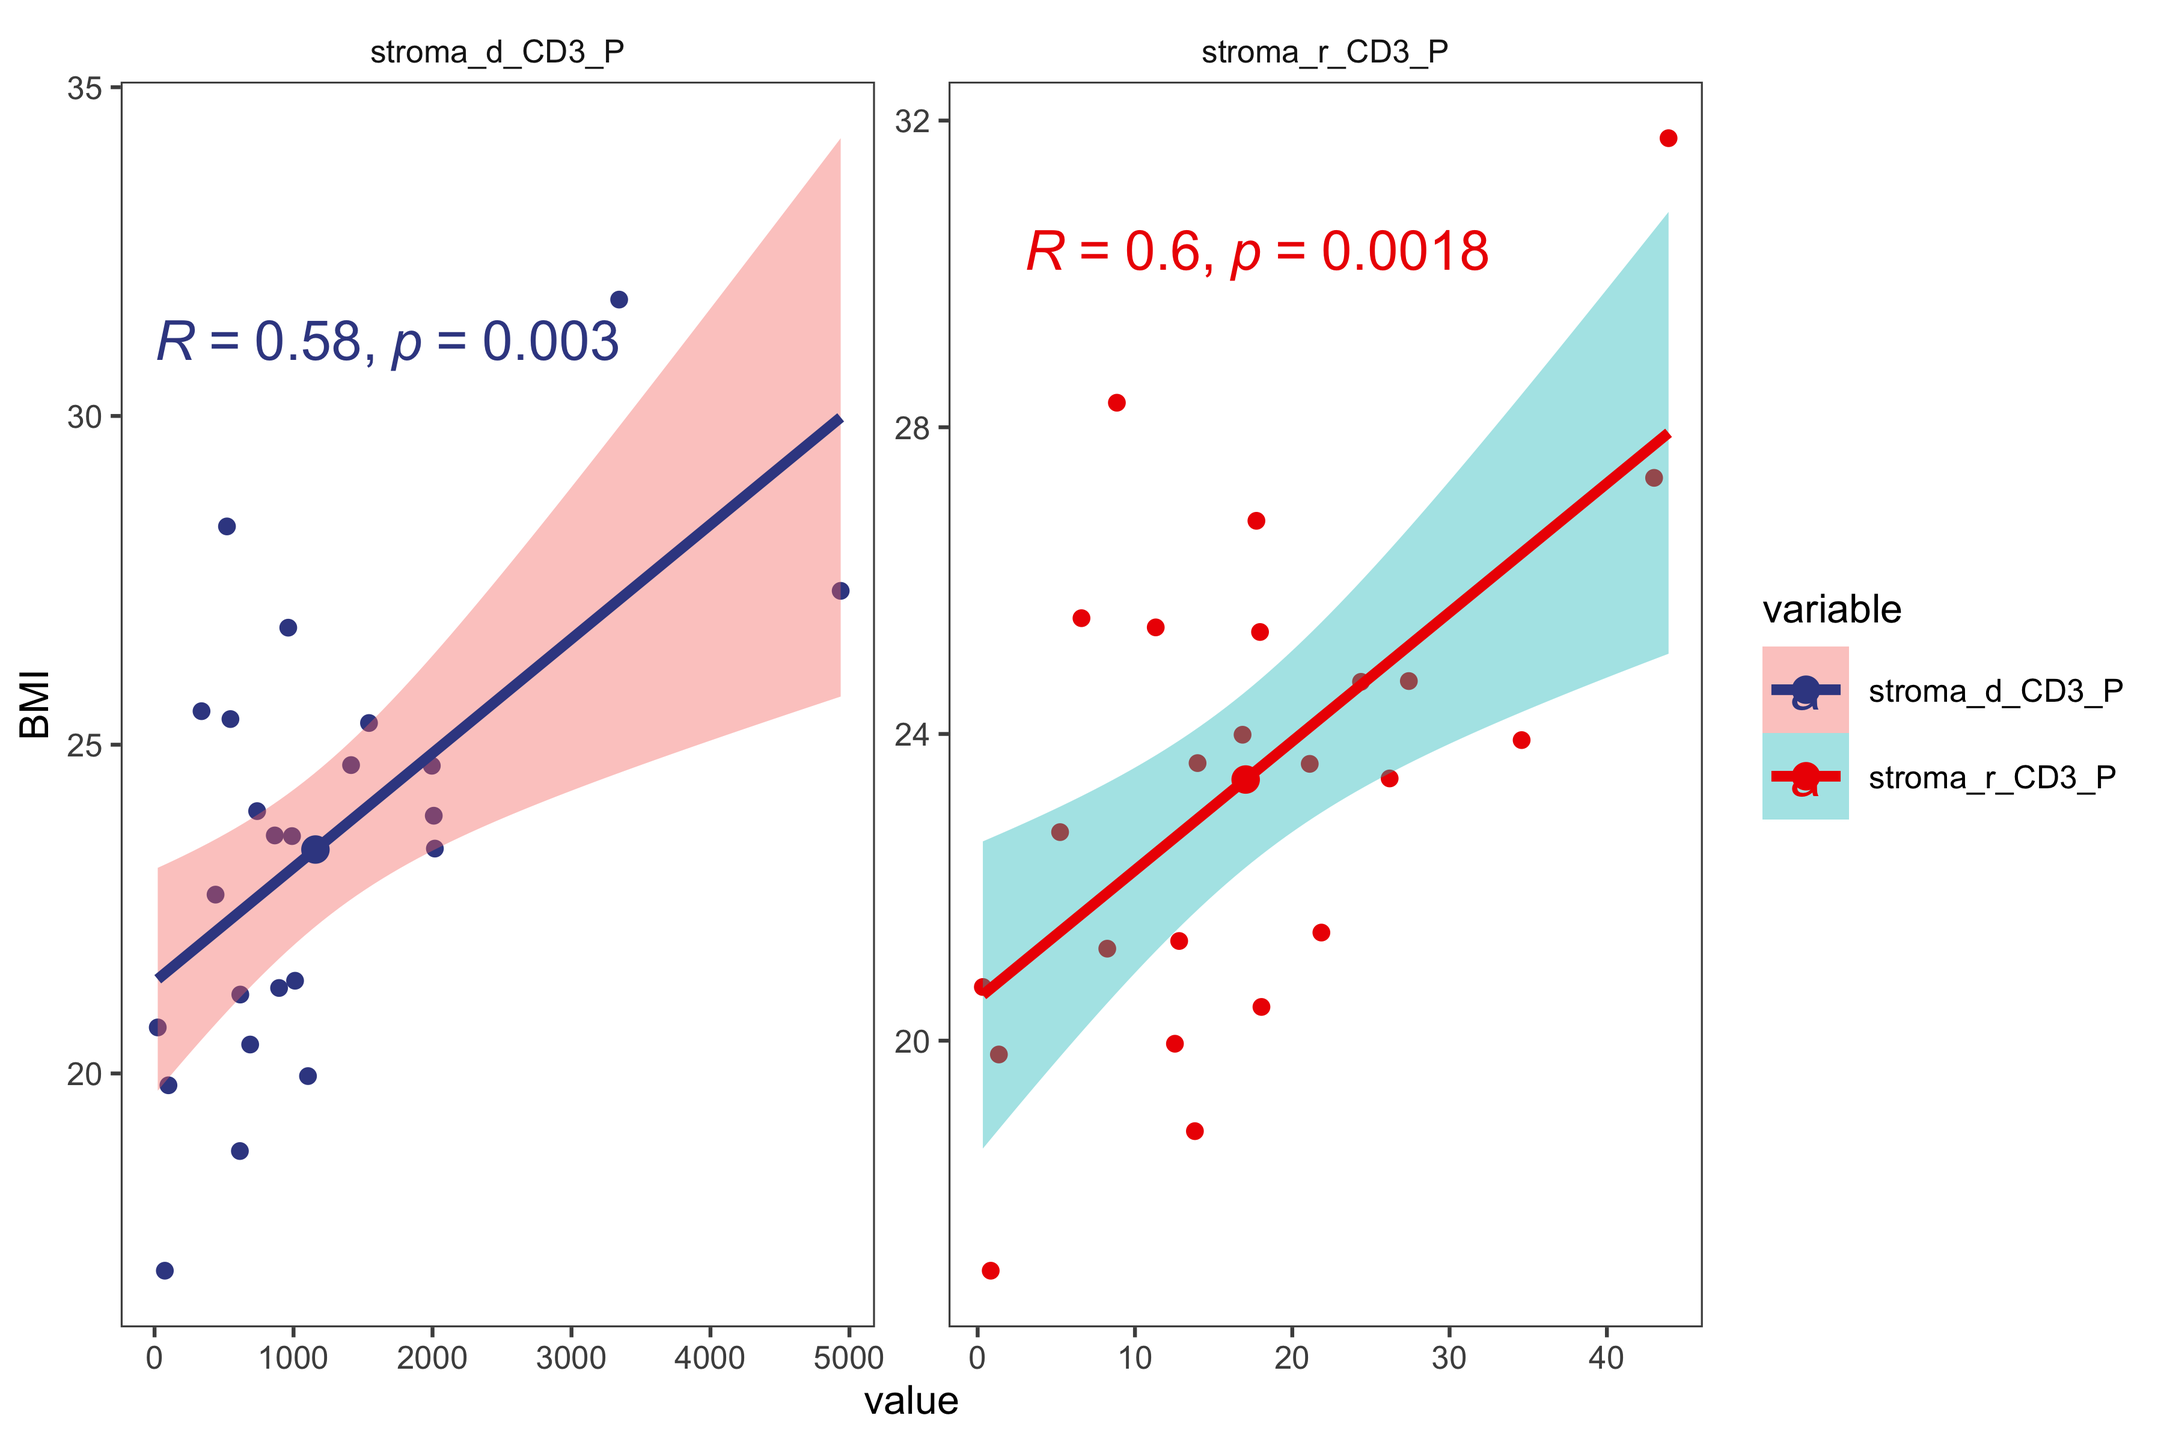
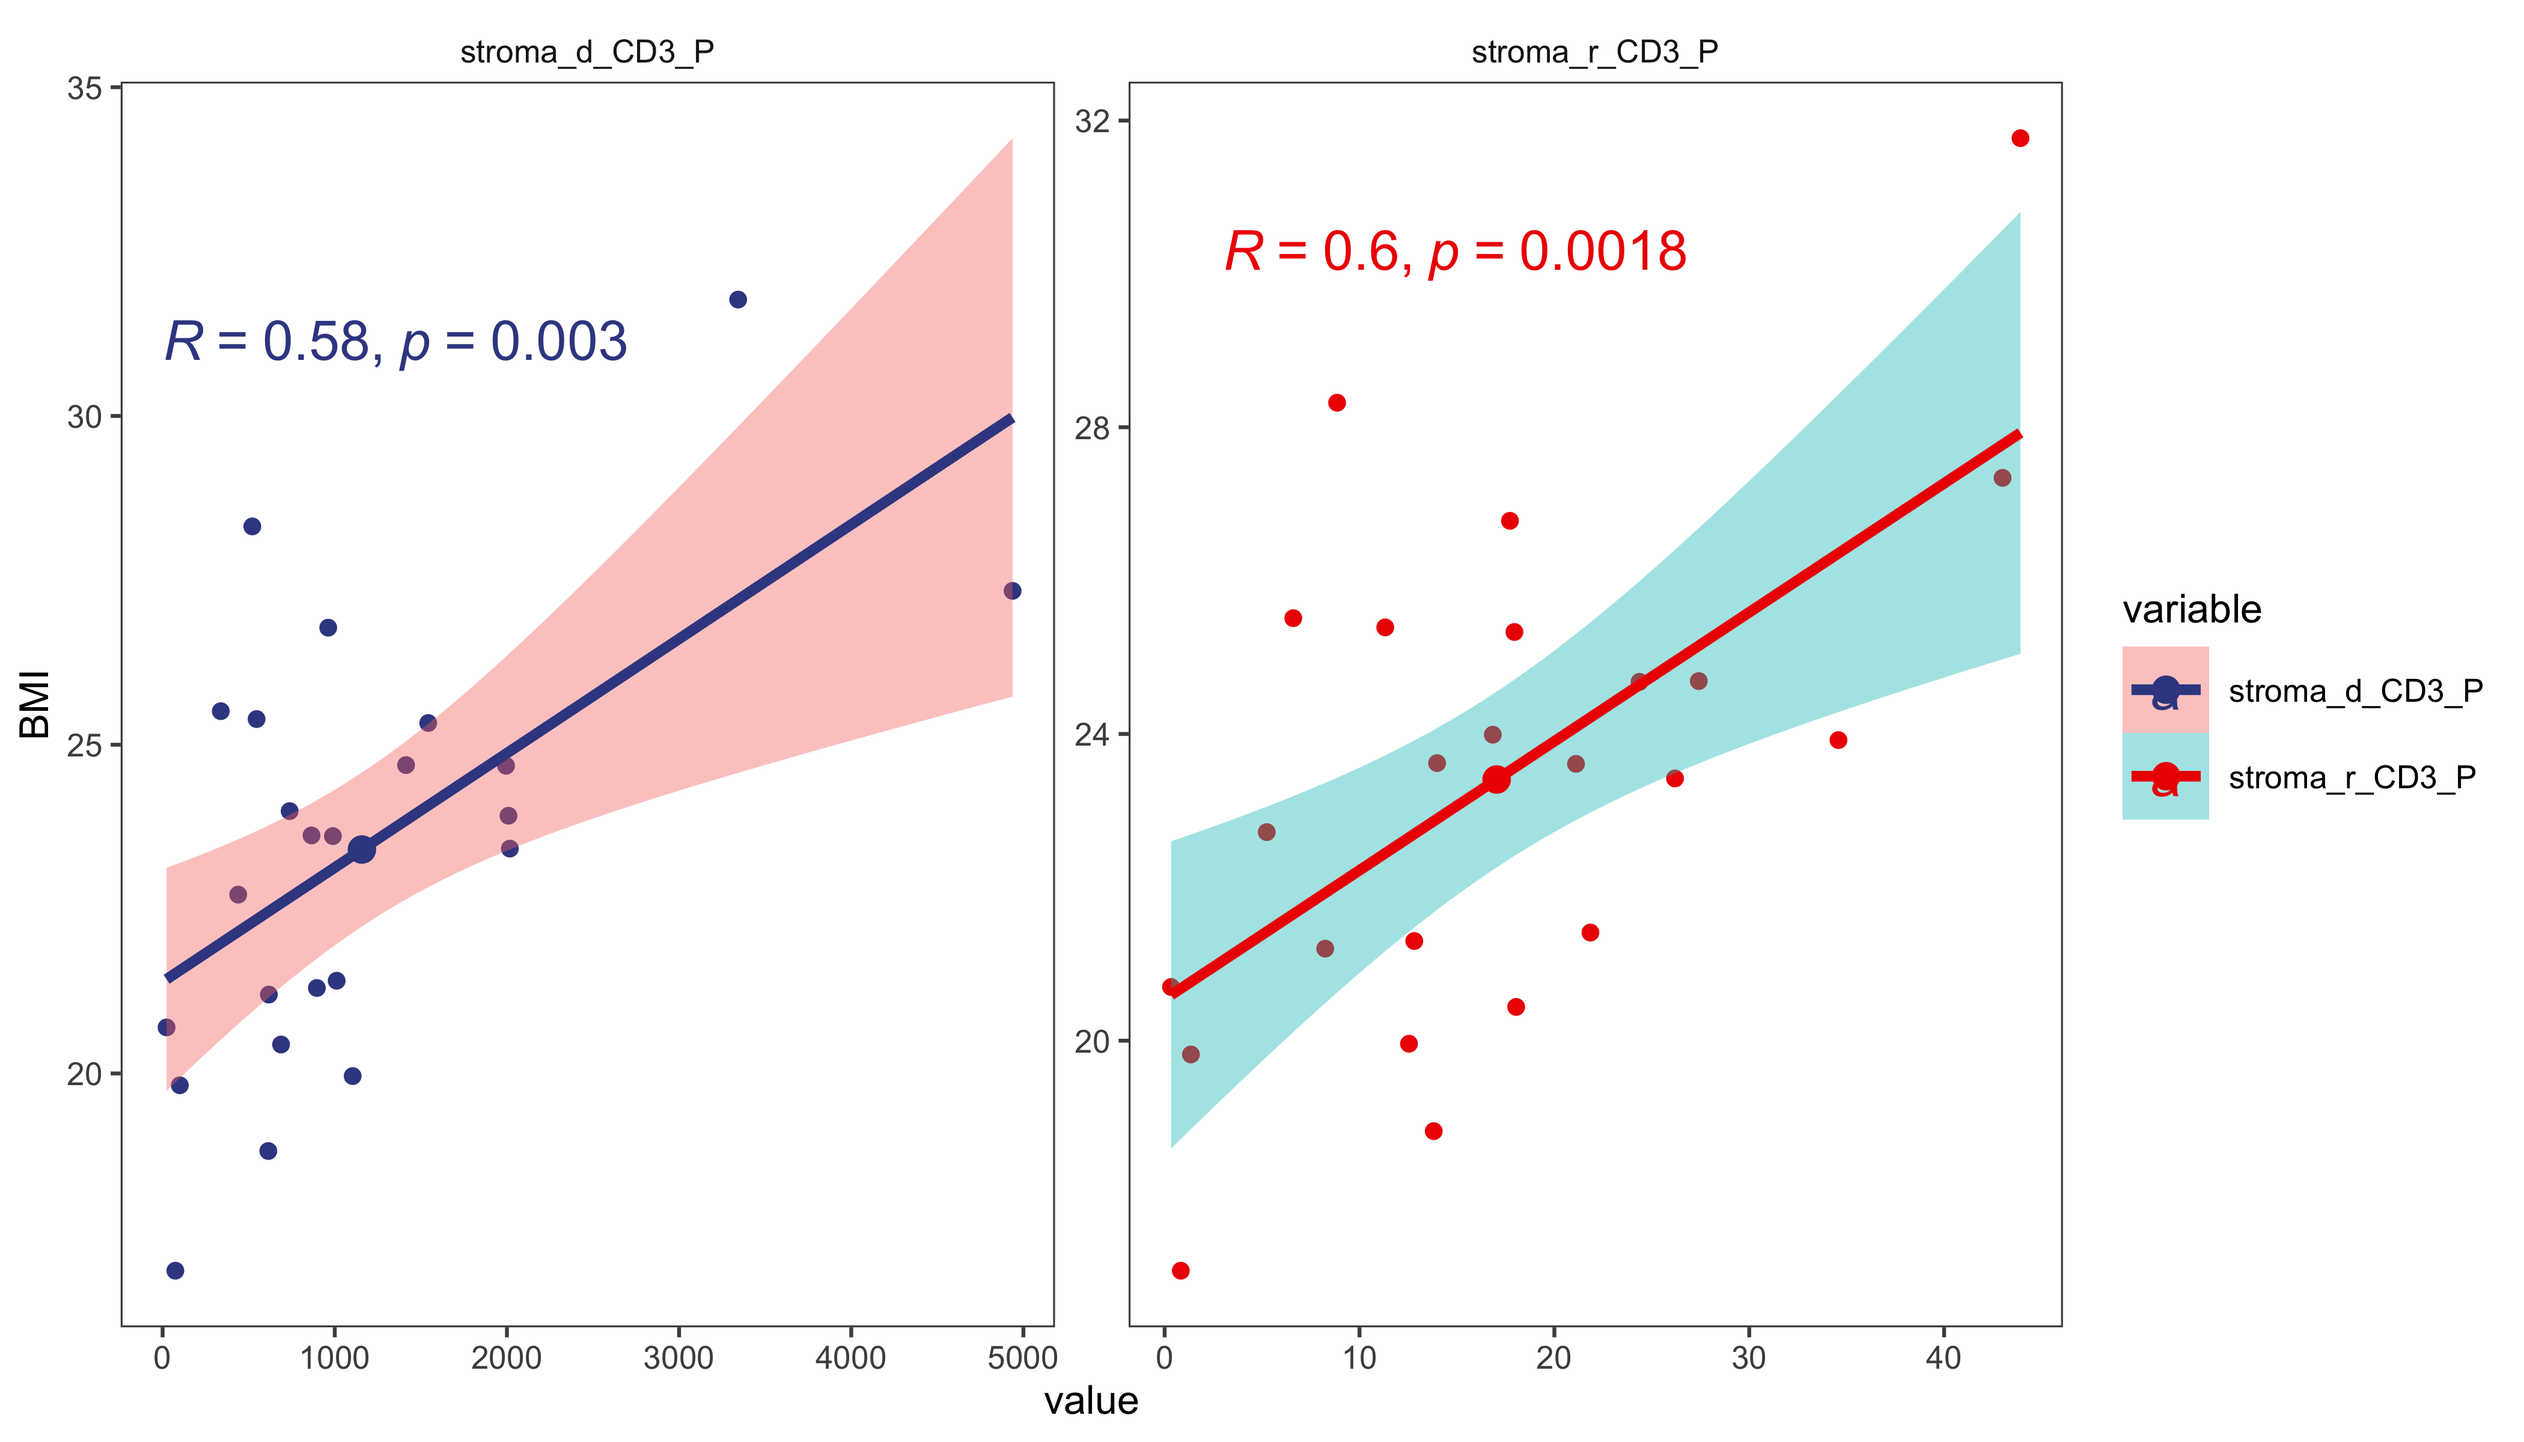
correlate the BMI and irAEs analysis publicdatasets

diff --git a/Analysis Ducoments/BMI_and_irAEs.md b/Analysis Ducoments/BMI_and_irAEs.md
@@ -92,10 +92,9 @@
     ggsurvplot(fit, data=data,xlab = "Time(months)",
                censor.size=0.5, size = 0.5,
                tables.theme = theme_few(base_size = 6),
-               linetype = "strata", legend.labs = c("High", "Low"),
-                    legend.title = "BMI",palette = c("black","red"),
+               legend.labs = c(">25", "<=25"),
+                    legend.title = "BMI",palette = c("red","black"),
                     risk.table = T,
-                    #legend = c(0.84, 0.8),
                     pval = TRUE,pval.size = 3, 
                     pval.coord=c(0.8,0.2),pval.method=F,
                     pval.method.coord=c(0.05,0.3), 
@@ -107,7 +106,7 @@
                     risk.table.y.text.col = T,
                     risk.table.y.text = FALSE )
 
-<img src="BMI_and_irAEs_files/figure-markdown_strict/unnamed-chunk-3-1.png" width="30%" style="display: block; margin: auto;" />
+<img src="BMI_and_irAEs_files/figure-markdown_strict/unnamed-chunk-3-1.png" width="40%" style="display: block; margin: auto;" />
 
 ### 1.1.3 Correlation of BMI and gut FBratio
 
@@ -196,7 +195,7 @@
 
     plot_grid(p1,p2,labels = c("A","B"), ncol =2, nrow = 1)
 
-<img src="BMI_and_irAEs_files/figure-markdown_strict/unnamed-chunk-6-1.png" width="40%" style="display: block; margin: auto;" />
+<img src="BMI_and_irAEs_files/figure-markdown_strict/unnamed-chunk-6-1.png" width="70%" style="display: block; margin: auto;" />
 
 ### 1.4.2 Diagnostic value of Gut FBratio in CRC cohorts
 
